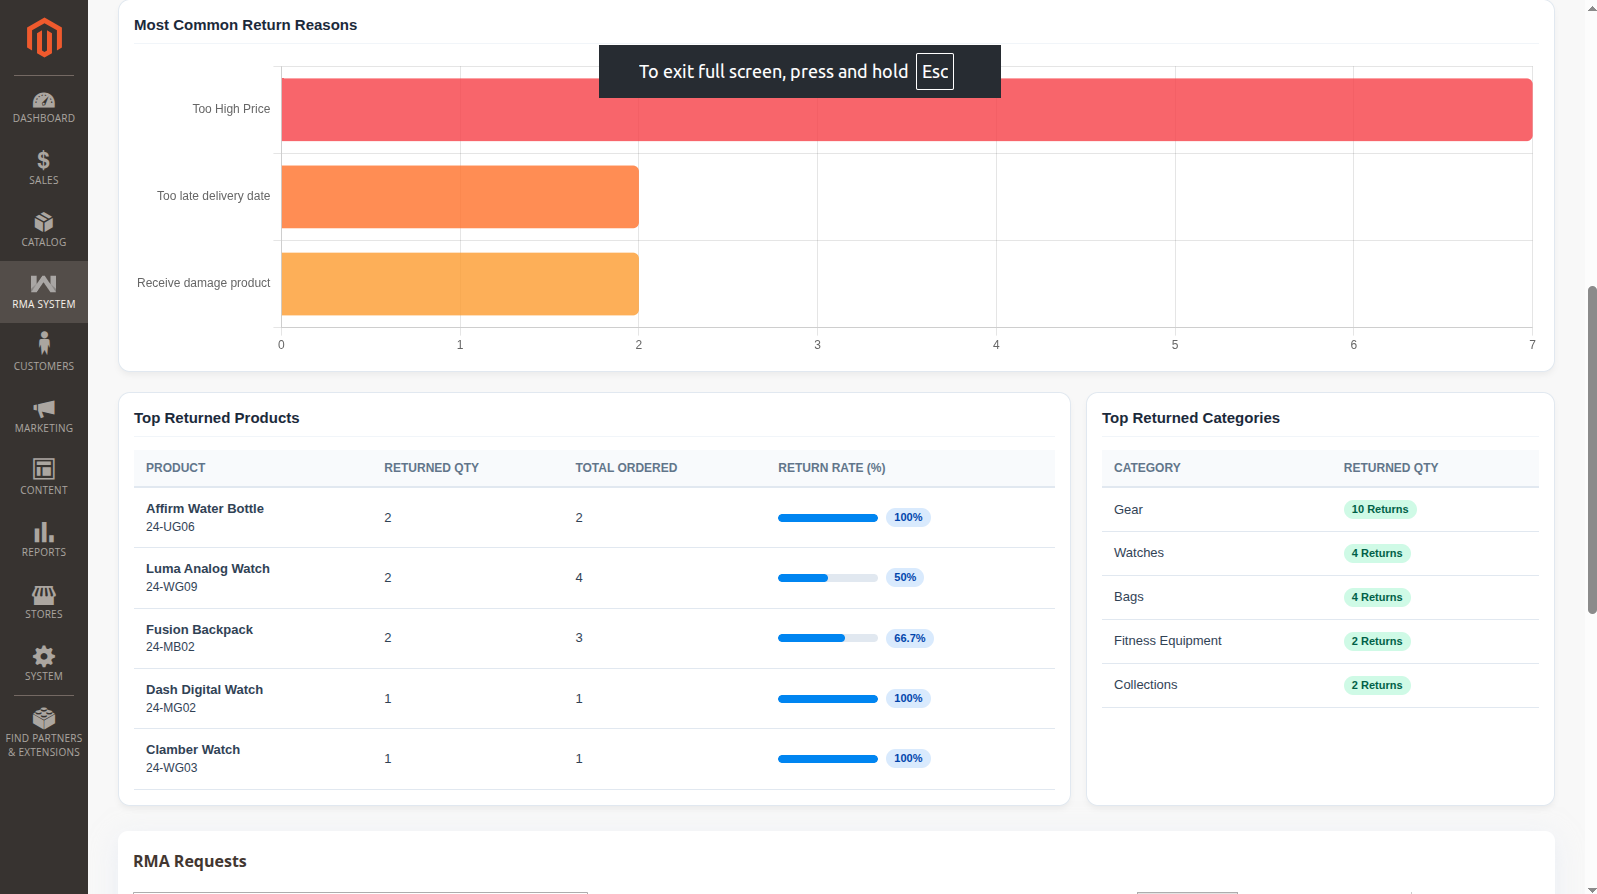
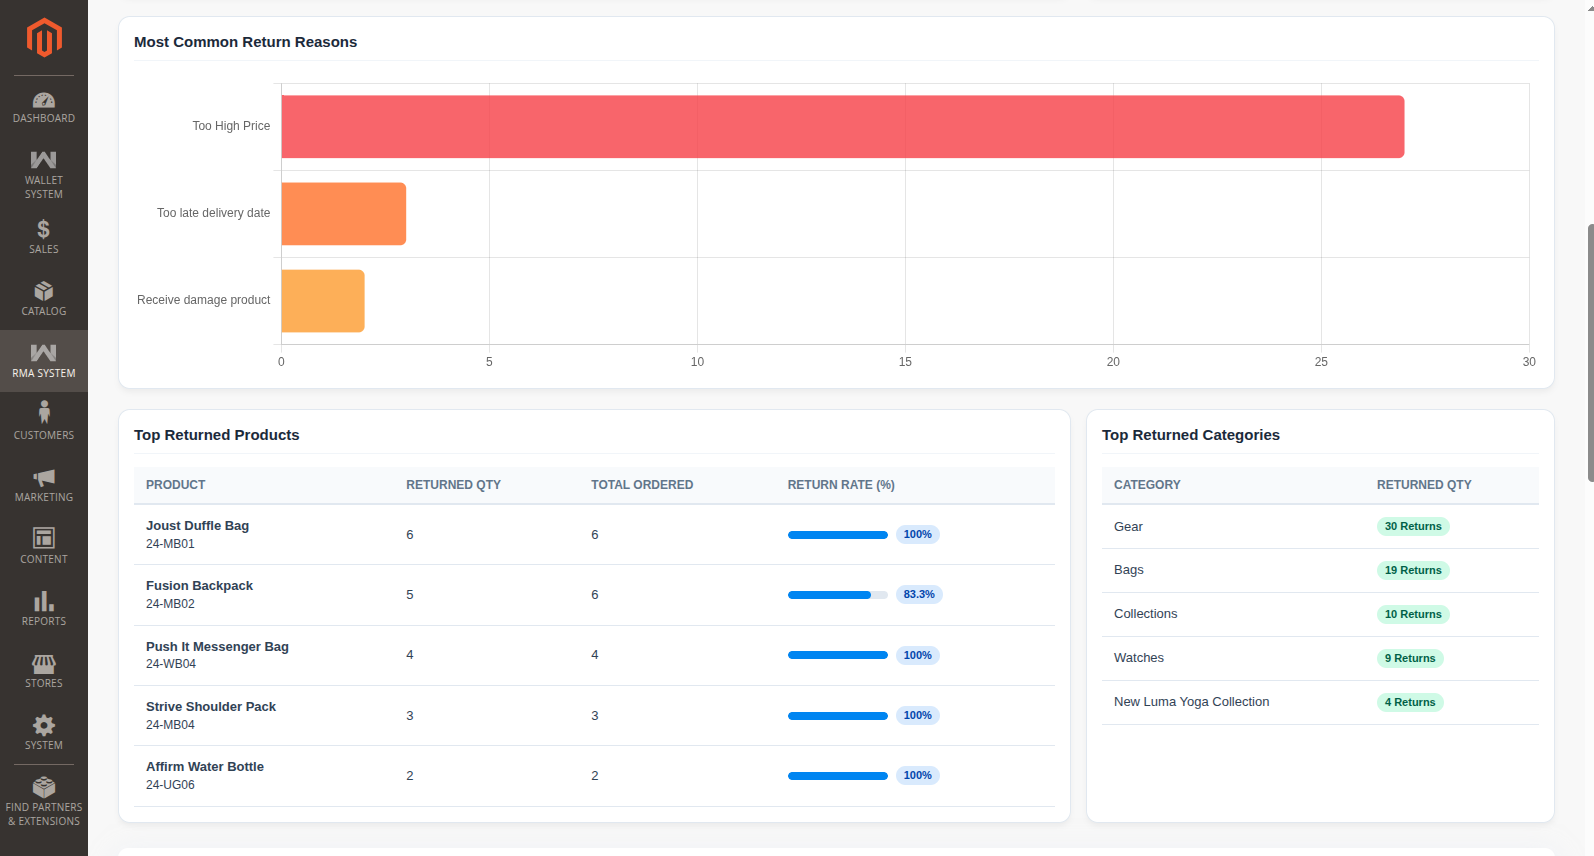
updated imges 2

diff --git a/docs/.vuepress/.temp/pages/adobe-commerce-product-return-rma-new-features.html.vue b/docs/.vuepress/.temp/pages/adobe-commerce-product-return-rma-new-features.html.vue
@@ -286,15 +286,6 @@
 </ul>
 <hr>
 <p>That’s all for the new features in the Magento 2 Return extension. If you still have any issues feel free to add a ticket and let us know your views to make the module better <strong><a href="http://webkul.uvdesk.com/" target="_blank" rel="noopener noreferrer">http://webkul.uvdesk.com/</a></strong></p>
-<p>Current Product Version - 4.0.5</p>
-<p>Supported Framework Version - Magento 2.0.x, 2.1.x, 2.2.x, 2.3.x, 2.4.x</p>
-<p><img src="https://cdnblog.webkul.com/blog/wp-content/uploads/2024/11/nirupama-shree.webp" alt="author-thumb"></p>
-<p><a href="https://webkul.com/blog/author/nirupama382/" target="_blank" rel="noopener noreferrer">nirupama shree 6 Badges</a></p>
-<ul>
-<li>25 May, 2026 Updated by - Kush Mathur</li>
-<li>16 Oct, 2025 Updated by - Kuldeep Singh</li>
-<li>19 Jun, 2026 Updated by - Nadim Ahmad</li>
-</ul>
 </div></template>
 
 

diff --git a/docs/.vuepress/.temp/pages/adobe-commerce-product-return-rma-new-features.html.js b/docs/.vuepress/.temp/pages/adobe-commerce-product-return-rma-new-features.html.js
@@ -1,5 +1,5 @@
 import comp from "/home/users/nadim.ahmad/Downloads/vuepress/vuepress-starter/docs/.vuepress/.temp/pages/adobe-commerce-product-return-rma-new-features.html.vue"
-const data = JSON.parse("{\"path\":\"/adobe-commerce-product-return-rma-new-features.html\",\"title\":\"User Guide of Magento 2 Product Return RMA — New Features\",\"lang\":\"en-US\",\"frontmatter\":{},\"headers\":[{\"level\":2,\"title\":\"New Features of Product Return RMA\",\"slug\":\"new-features-of-product-return-rma\",\"link\":\"#new-features-of-product-return-rma\",\"children\":[]},{\"level\":2,\"title\":\"Configuration of Product Return RMA\",\"slug\":\"configuration-of-product-return-rma\",\"link\":\"#configuration-of-product-return-rma\",\"children\":[{\"level\":3,\"title\":\"1. Automated Workflow Configuration\",\"slug\":\"_1-automated-workflow-configuration\",\"link\":\"#_1-automated-workflow-configuration\",\"children\":[]},{\"level\":3,\"title\":\"2. RMA Wallet Configuration\",\"slug\":\"_2-rma-wallet-configuration\",\"link\":\"#_2-rma-wallet-configuration\",\"children\":[]},{\"level\":3,\"title\":\"3. RMA Fraud Detection Configuration\",\"slug\":\"_3-rma-fraud-detection-configuration\",\"link\":\"#_3-rma-fraud-detection-configuration\",\"children\":[]}]},{\"level\":2,\"title\":\"Product Return RMA System Management\",\"slug\":\"product-return-rma-system-management\",\"link\":\"#product-return-rma-system-management\",\"children\":[{\"level\":3,\"title\":\"Manage All RMA & Analytics Dashboard\",\"slug\":\"manage-all-rma-analytics-dashboard\",\"link\":\"#manage-all-rma-analytics-dashboard\",\"children\":[]},{\"level\":3,\"title\":\"Quick Order Cancellation\",\"slug\":\"quick-order-cancellation\",\"link\":\"#quick-order-cancellation\",\"children\":[]}]},{\"level\":2,\"title\":\"GraphQL API Support\",\"slug\":\"graphql-api-support\",\"link\":\"#graphql-api-support\",\"children\":[{\"level\":3,\"title\":\"1. Retrieve RMA Dashboard Statistics (getRmaStats)\",\"slug\":\"_1-retrieve-rma-dashboard-statistics-getrmastats\",\"link\":\"#_1-retrieve-rma-dashboard-statistics-getrmastats\",\"children\":[]},{\"level\":3,\"title\":\"2. Retrieve RMAs by Status (getRmaByStatus)\",\"slug\":\"_2-retrieve-rmas-by-status-getrmabystatus\",\"link\":\"#_2-retrieve-rmas-by-status-getrmabystatus\",\"children\":[]},{\"level\":3,\"title\":\"3. Update RMA Status (updateRmaStatus)\",\"slug\":\"_3-update-rma-status-updatermastatus\",\"link\":\"#_3-update-rma-status-updatermastatus\",\"children\":[]},{\"level\":3,\"title\":\"4. Cancel RMA Request (cancelRma)\",\"slug\":\"_4-cancel-rma-request-cancelrma\",\"link\":\"#_4-cancel-rma-request-cancelrma\",\"children\":[]}]},{\"level\":2,\"title\":\"REST API Support\",\"slug\":\"rest-api-support\",\"link\":\"#rest-api-support\",\"children\":[{\"level\":3,\"title\":\"1. List RMAs\",\"slug\":\"_1-list-rmas\",\"link\":\"#_1-list-rmas\",\"children\":[]},{\"level\":3,\"title\":\"2. Create RMA\",\"slug\":\"_2-create-rma\",\"link\":\"#_2-create-rma\",\"children\":[]},{\"level\":3,\"title\":\"3. Update RMA Status\",\"slug\":\"_3-update-rma-status\",\"link\":\"#_3-update-rma-status\",\"children\":[]},{\"level\":3,\"title\":\"4. Cancel RMA\",\"slug\":\"_4-cancel-rma\",\"link\":\"#_4-cancel-rma\",\"children\":[]}]}],\"git\":{\"updatedTime\":1782305098000,\"contributors\":[{\"name\":\"Nadim Ahmad\",\"username\":\"\",\"email\":\"[email redacted]\",\"commits\":2}],\"changelog\":[{\"hash\":\"ebc9bc2fe6b5dfbfb9a8a71f14475f5d72c2fd16\",\"time\":1782305098000,\"email\":\"[email redacted]\",\"author\":\"Nadim Ahmad\",\"message\":\"updated doc images\"},{\"hash\":\"8327bbad7a7c6c6a5dd5e5522ca42d3dfb32220b\",\"time\":1782302792000,\"email\":\"[email redacted]\",\"author\":\"Nadim Ahmad\",\"message\":\"added new feature page in blog\"}]},\"filePathRelative\":\"adobe-commerce-product-return-rma-new-features.md\",\"excerpt\":\"\\n<p>Updated June 2026</p>\\n<p><a href=\\\"https://magento2demo.webkul.in/modules-demo/?demo=Webkul_Rmasystem\\\" target=\\\"_blank\\\" rel=\\\"noopener noreferrer\\\">Live Demo</a></p>\\n<p><a href=\\\"https://store.webkul.com/magento2-rma-extension.html\\\" target=\\\"_blank\\\" rel=\\\"noopener noreferrer\\\">Magento 2 RMA</a> plugin allows managing customer requests related to product returns, refunds, exchanges, and order cancellations.</p>\"}")
+const data = JSON.parse("{\"path\":\"/adobe-commerce-product-return-rma-new-features.html\",\"title\":\"User Guide of Magento 2 Product Return RMA — New Features\",\"lang\":\"en-US\",\"frontmatter\":{},\"headers\":[{\"level\":2,\"title\":\"New Features of Product Return RMA\",\"slug\":\"new-features-of-product-return-rma\",\"link\":\"#new-features-of-product-return-rma\",\"children\":[]},{\"level\":2,\"title\":\"Configuration of Product Return RMA\",\"slug\":\"configuration-of-product-return-rma\",\"link\":\"#configuration-of-product-return-rma\",\"children\":[{\"level\":3,\"title\":\"1. Automated Workflow Configuration\",\"slug\":\"_1-automated-workflow-configuration\",\"link\":\"#_1-automated-workflow-configuration\",\"children\":[]},{\"level\":3,\"title\":\"2. RMA Wallet Configuration\",\"slug\":\"_2-rma-wallet-configuration\",\"link\":\"#_2-rma-wallet-configuration\",\"children\":[]},{\"level\":3,\"title\":\"3. RMA Fraud Detection Configuration\",\"slug\":\"_3-rma-fraud-detection-configuration\",\"link\":\"#_3-rma-fraud-detection-configuration\",\"children\":[]}]},{\"level\":2,\"title\":\"Product Return RMA System Management\",\"slug\":\"product-return-rma-system-management\",\"link\":\"#product-return-rma-system-management\",\"children\":[{\"level\":3,\"title\":\"Manage All RMA & Analytics Dashboard\",\"slug\":\"manage-all-rma-analytics-dashboard\",\"link\":\"#manage-all-rma-analytics-dashboard\",\"children\":[]},{\"level\":3,\"title\":\"Quick Order Cancellation\",\"slug\":\"quick-order-cancellation\",\"link\":\"#quick-order-cancellation\",\"children\":[]}]},{\"level\":2,\"title\":\"GraphQL API Support\",\"slug\":\"graphql-api-support\",\"link\":\"#graphql-api-support\",\"children\":[{\"level\":3,\"title\":\"1. Retrieve RMA Dashboard Statistics (getRmaStats)\",\"slug\":\"_1-retrieve-rma-dashboard-statistics-getrmastats\",\"link\":\"#_1-retrieve-rma-dashboard-statistics-getrmastats\",\"children\":[]},{\"level\":3,\"title\":\"2. Retrieve RMAs by Status (getRmaByStatus)\",\"slug\":\"_2-retrieve-rmas-by-status-getrmabystatus\",\"link\":\"#_2-retrieve-rmas-by-status-getrmabystatus\",\"children\":[]},{\"level\":3,\"title\":\"3. Update RMA Status (updateRmaStatus)\",\"slug\":\"_3-update-rma-status-updatermastatus\",\"link\":\"#_3-update-rma-status-updatermastatus\",\"children\":[]},{\"level\":3,\"title\":\"4. Cancel RMA Request (cancelRma)\",\"slug\":\"_4-cancel-rma-request-cancelrma\",\"link\":\"#_4-cancel-rma-request-cancelrma\",\"children\":[]}]},{\"level\":2,\"title\":\"REST API Support\",\"slug\":\"rest-api-support\",\"link\":\"#rest-api-support\",\"children\":[{\"level\":3,\"title\":\"1. List RMAs\",\"slug\":\"_1-list-rmas\",\"link\":\"#_1-list-rmas\",\"children\":[]},{\"level\":3,\"title\":\"2. Create RMA\",\"slug\":\"_2-create-rma\",\"link\":\"#_2-create-rma\",\"children\":[]},{\"level\":3,\"title\":\"3. Update RMA Status\",\"slug\":\"_3-update-rma-status\",\"link\":\"#_3-update-rma-status\",\"children\":[]},{\"level\":3,\"title\":\"4. Cancel RMA\",\"slug\":\"_4-cancel-rma\",\"link\":\"#_4-cancel-rma\",\"children\":[]}]}],\"git\":{\"updatedTime\":1782307863000,\"contributors\":[{\"name\":\"Nadim Ahmad\",\"username\":\"\",\"email\":\"[email redacted]\",\"commits\":3}],\"changelog\":[{\"hash\":\"dc7530d4566937da49908c36fbc0164525498a72\",\"time\":1782307863000,\"email\":\"[email redacted]\",\"author\":\"Nadim Ahmad\",\"message\":\"updated images in doc\"},{\"hash\":\"ebc9bc2fe6b5dfbfb9a8a71f14475f5d72c2fd16\",\"time\":1782305098000,\"email\":\"[email redacted]\",\"author\":\"Nadim Ahmad\",\"message\":\"updated doc images\"},{\"hash\":\"8327bbad7a7c6c6a5dd5e5522ca42d3dfb32220b\",\"time\":1782302792000,\"email\":\"[email redacted]\",\"author\":\"Nadim Ahmad\",\"message\":\"added new feature page in blog\"}]},\"filePathRelative\":\"adobe-commerce-product-return-rma-new-features.md\",\"excerpt\":\"\\n<p>Updated June 2026</p>\\n<p><a href=\\\"https://magento2demo.webkul.in/modules-demo/?demo=Webkul_Rmasystem\\\" target=\\\"_blank\\\" rel=\\\"noopener noreferrer\\\">Live Demo</a></p>\\n<p><a href=\\\"https://store.webkul.com/magento2-rma-extension.html\\\" target=\\\"_blank\\\" rel=\\\"noopener noreferrer\\\">Magento 2 RMA</a> plugin allows managing customer requests related to product returns, refunds, exchanges, and order cancellations.</p>\"}")
 export { comp, data }
 
 if (import.meta.webpackHot) {

diff --git a/docs/.vuepress/.temp/pages/adobe-commerce-product-return-rma.html.js b/docs/.vuepress/.temp/pages/adobe-commerce-product-return-rma.html.js
@@ -1,5 +1,5 @@
 import comp from "/home/users/nadim.ahmad/Downloads/vuepress/vuepress-starter/docs/.vuepress/.temp/pages/adobe-commerce-product-return-rma.html.vue"
-const data = JSON.parse("{\"path\":\"/adobe-commerce-product-return-rma.html\",\"title\":\"User Guide of Magento 2 Product Return RMA\",\"lang\":\"en-US\",\"frontmatter\":{},\"headers\":[{\"level\":2,\"title\":\"Features of Product Return RMA\",\"slug\":\"features-of-product-return-rma\",\"link\":\"#features-of-product-return-rma\",\"children\":[]},{\"level\":2,\"title\":\"Installation of Product Return RMA\",\"slug\":\"installation-of-product-return-rma\",\"link\":\"#installation-of-product-return-rma\",\"children\":[{\"level\":3,\"title\":\"#1 Download Module\",\"slug\":\"_1-download-module\",\"link\":\"#_1-download-module\",\"children\":[]},{\"level\":3,\"title\":\"#2 Upload Folder\",\"slug\":\"_2-upload-folder\",\"link\":\"#_2-upload-folder\",\"children\":[]},{\"level\":3,\"title\":\"#3 Run Commands\",\"slug\":\"_3-run-commands\",\"link\":\"#_3-run-commands\",\"children\":[]},{\"level\":3,\"title\":\"Multilingual Support\",\"slug\":\"multilingual-support\",\"link\":\"#multilingual-support\",\"children\":[]}]},{\"level\":2,\"title\":\"Translation in Product Return RMA\",\"slug\":\"translation-in-product-return-rma\",\"link\":\"#translation-in-product-return-rma\",\"children\":[]},{\"level\":2,\"title\":\"Configuration of Product Return RMA\",\"slug\":\"configuration-of-product-return-rma\",\"link\":\"#configuration-of-product-return-rma\",\"children\":[{\"level\":3,\"title\":\"Select Allowed Order Status –\",\"slug\":\"select-allowed-order-status-–\",\"link\":\"#select-allowed-order-status-–\",\"children\":[]}]},{\"level\":2,\"title\":\"Advanced Configuration of Product Return RMA\",\"slug\":\"advanced-configuration-of-product-return-rma\",\"link\":\"#advanced-configuration-of-product-return-rma\",\"children\":[{\"level\":3,\"title\":\"1. Automated Workflow Configuration\",\"slug\":\"_1-automated-workflow-configuration\",\"link\":\"#_1-automated-workflow-configuration\",\"children\":[]},{\"level\":3,\"title\":\"2. RMA Wallet Configuration\",\"slug\":\"_2-rma-wallet-configuration\",\"link\":\"#_2-rma-wallet-configuration\",\"children\":[]},{\"level\":3,\"title\":\"3. RMA Fraud Detection Configuration\",\"slug\":\"_3-rma-fraud-detection-configuration\",\"link\":\"#_3-rma-fraud-detection-configuration\",\"children\":[]},{\"level\":3,\"title\":\"Category Restriction in Product Return RMA\",\"slug\":\"category-restriction-in-product-return-rma\",\"link\":\"#category-restriction-in-product-return-rma\",\"children\":[]}]},{\"level\":2,\"title\":\"Product Return RMA System Management\",\"slug\":\"product-return-rma-system-management\",\"link\":\"#product-return-rma-system-management\",\"children\":[{\"level\":3,\"title\":\"Create RMA\",\"slug\":\"create-rma\",\"link\":\"#create-rma\",\"children\":[]},{\"level\":3,\"title\":\"Manage All RMA & Analytics Dashboard\",\"slug\":\"manage-all-rma-analytics-dashboard\",\"link\":\"#manage-all-rma-analytics-dashboard\",\"children\":[]},{\"level\":3,\"title\":\"Manage Payment History\",\"slug\":\"manage-payment-history\",\"link\":\"#manage-payment-history\",\"children\":[]},{\"level\":3,\"title\":\"Manage Reasons\",\"slug\":\"manage-reasons\",\"link\":\"#manage-reasons\",\"children\":[]},{\"level\":3,\"title\":\"Manage Shipping Label\",\"slug\":\"manage-shipping-label\",\"link\":\"#manage-shipping-label\",\"children\":[]},{\"level\":3,\"title\":\"Manage RMA Custom Fields\",\"slug\":\"manage-rma-custom-fields\",\"link\":\"#manage-rma-custom-fields\",\"children\":[]},{\"level\":3,\"title\":\"Add New Field\",\"slug\":\"add-new-field\",\"link\":\"#add-new-field\",\"children\":[]},{\"level\":3,\"title\":\"RMA Status\",\"slug\":\"rma-status\",\"link\":\"#rma-status\",\"children\":[]},{\"level\":3,\"title\":\"RMA Rules\",\"slug\":\"rma-rules\",\"link\":\"#rma-rules\",\"children\":[]},{\"level\":3,\"title\":\"Create a New RMA Request\",\"slug\":\"create-a-new-rma-request\",\"link\":\"#create-a-new-rma-request\",\"children\":[]},{\"level\":3,\"title\":\"Quick Order Cancellation\",\"slug\":\"quick-order-cancellation\",\"link\":\"#quick-order-cancellation\",\"children\":[]},{\"level\":3,\"title\":\"View RMA\",\"slug\":\"view-rma\",\"link\":\"#view-rma\",\"children\":[]},{\"level\":3,\"title\":\"Print Shipping Slip\",\"slug\":\"print-shipping-slip\",\"link\":\"#print-shipping-slip\",\"children\":[]},{\"level\":3,\"title\":\"Guest Login for RMA\",\"slug\":\"guest-login-for-rma\",\"link\":\"#guest-login-for-rma\",\"children\":[]},{\"level\":3,\"title\":\"New RMA Request\",\"slug\":\"new-rma-request\",\"link\":\"#new-rma-request\",\"children\":[]},{\"level\":3,\"title\":\"Manage All RMA Requests\",\"slug\":\"manage-all-rma-requests\",\"link\":\"#manage-all-rma-requests\",\"children\":[]},{\"level\":3,\"title\":\"magento 2 rma request\",\"slug\":\"magento-2-rma-request\",\"link\":\"#magento-2-rma-request\",\"children\":[]},{\"level\":3,\"title\":\"Manage RMA\",\"slug\":\"manage-rma\",\"link\":\"#manage-rma\",\"children\":[]},{\"level\":3,\"title\":\"RMA Status\",\"slug\":\"rma-status-1\",\"link\":\"#rma-status-1\",\"children\":[]},{\"level\":3,\"title\":\"Refund\",\"slug\":\"refund\",\"link\":\"#refund\",\"children\":[]},{\"level\":3,\"title\":\"Cancel Items\",\"slug\":\"cancel-items\",\"link\":\"#cancel-items\",\"children\":[]},{\"level\":3,\"title\":\"Exchange\",\"slug\":\"exchange\",\"link\":\"#exchange\",\"children\":[]}]}],\"git\":{\"updatedTime\":1782305098000,\"contributors\":[{\"name\":\"Nadim Ahmad\",\"username\":\"\",\"email\":\"[email redacted]\",\"commits\":6}],\"changelog\":[{\"hash\":\"ebc9bc2fe6b5dfbfb9a8a71f14475f5d72c2fd16\",\"time\":1782305098000,\"email\":\"[email redacted]\",\"author\":\"Nadim Ahmad\",\"message\":\"updated doc images\"},{\"hash\":\"8327bbad7a7c6c6a5dd5e5522ca42d3dfb32220b\",\"time\":1782302792000,\"email\":\"[email redacted]\",\"author\":\"Nadim Ahmad\",\"message\":\"added new feature page in blog\"},{\"hash\":\"eb5e162acc33fad14667a5b32a15c0b421dfa774\",\"time\":1781877971000,\"email\":\"[email redacted]\",\"author\":\"Nadim Ahmad\",\"message\":\"updated blog file\"},{\"hash\":\"3dc7c82c808f494be5b76f6220ecdeee9bc06143\",\"time\":1781877176000,\"email\":\"[email redacted]\",\"author\":\"Nadim Ahmad\",\"message\":\"updated the doc\"},{\"hash\":\"277c7ddb12eb9643aec2b306eac48b569fe36ffd\",\"time\":1781872337000,\"email\":\"[email redacted]\",\"author\":\"Nadim Ahmad\",\"message\":\"updated doc\"},{\"hash\":\"352528ada77dce5d02ae49abeb40ef0052c2b249\",\"time\":1781871567000,\"email\":\"[email redacted]\",\"author\":\"Nadim Ahmad\",\"message\":\"feat: setup VuePress documentation with RMA guide\"}]},\"filePathRelative\":\"adobe-commerce-product-return-rma.md\",\"excerpt\":\"\\n<p>Updated June 2026</p>\\n<p><a href=\\\"https://magento2demo.webkul.in/modules-demo/?demo=Webkul_Rmasystem\\\" target=\\\"_blank\\\" rel=\\\"noopener noreferrer\\\">Live Demo</a></p>\\n<p><a href=\\\"https://store.webkul.com/magento2-rma-extension.html\\\" target=\\\"_blank\\\" rel=\\\"noopener noreferrer\\\">Magento 2 RMA</a> plugin allows managing customer requests related to product returns, refunds, exchanges, and order cancellations.</p>\"}")
+const data = JSON.parse("{\"path\":\"/adobe-commerce-product-return-rma.html\",\"title\":\"User Guide of Magento 2 Product Return RMA\",\"lang\":\"en-US\",\"frontmatter\":{},\"headers\":[{\"level\":2,\"title\":\"Features of Product Return RMA\",\"slug\":\"features-of-product-return-rma\",\"link\":\"#features-of-product-return-rma\",\"children\":[]},{\"level\":2,\"title\":\"Installation of Product Return RMA\",\"slug\":\"installation-of-product-return-rma\",\"link\":\"#installation-of-product-return-rma\",\"children\":[{\"level\":3,\"title\":\"#1 Download Module\",\"slug\":\"_1-download-module\",\"link\":\"#_1-download-module\",\"children\":[]},{\"level\":3,\"title\":\"#2 Upload Folder\",\"slug\":\"_2-upload-folder\",\"link\":\"#_2-upload-folder\",\"children\":[]},{\"level\":3,\"title\":\"#3 Run Commands\",\"slug\":\"_3-run-commands\",\"link\":\"#_3-run-commands\",\"children\":[]},{\"level\":3,\"title\":\"Multilingual Support\",\"slug\":\"multilingual-support\",\"link\":\"#multilingual-support\",\"children\":[]}]},{\"level\":2,\"title\":\"Translation in Product Return RMA\",\"slug\":\"translation-in-product-return-rma\",\"link\":\"#translation-in-product-return-rma\",\"children\":[]},{\"level\":2,\"title\":\"Configuration of Product Return RMA\",\"slug\":\"configuration-of-product-return-rma\",\"link\":\"#configuration-of-product-return-rma\",\"children\":[{\"level\":3,\"title\":\"Select Allowed Order Status –\",\"slug\":\"select-allowed-order-status-–\",\"link\":\"#select-allowed-order-status-–\",\"children\":[]}]},{\"level\":2,\"title\":\"Advanced Configuration of Product Return RMA\",\"slug\":\"advanced-configuration-of-product-return-rma\",\"link\":\"#advanced-configuration-of-product-return-rma\",\"children\":[{\"level\":3,\"title\":\"1. Automated Workflow Configuration\",\"slug\":\"_1-automated-workflow-configuration\",\"link\":\"#_1-automated-workflow-configuration\",\"children\":[]},{\"level\":3,\"title\":\"2. RMA Wallet Configuration\",\"slug\":\"_2-rma-wallet-configuration\",\"link\":\"#_2-rma-wallet-configuration\",\"children\":[]},{\"level\":3,\"title\":\"3. RMA Fraud Detection Configuration\",\"slug\":\"_3-rma-fraud-detection-configuration\",\"link\":\"#_3-rma-fraud-detection-configuration\",\"children\":[]},{\"level\":3,\"title\":\"Category Restriction in Product Return RMA\",\"slug\":\"category-restriction-in-product-return-rma\",\"link\":\"#category-restriction-in-product-return-rma\",\"children\":[]}]},{\"level\":2,\"title\":\"Product Return RMA System Management\",\"slug\":\"product-return-rma-system-management\",\"link\":\"#product-return-rma-system-management\",\"children\":[{\"level\":3,\"title\":\"Create RMA\",\"slug\":\"create-rma\",\"link\":\"#create-rma\",\"children\":[]},{\"level\":3,\"title\":\"Manage All RMA & Analytics Dashboard\",\"slug\":\"manage-all-rma-analytics-dashboard\",\"link\":\"#manage-all-rma-analytics-dashboard\",\"children\":[]},{\"level\":3,\"title\":\"Manage Payment History\",\"slug\":\"manage-payment-history\",\"link\":\"#manage-payment-history\",\"children\":[]},{\"level\":3,\"title\":\"Manage Reasons\",\"slug\":\"manage-reasons\",\"link\":\"#manage-reasons\",\"children\":[]},{\"level\":3,\"title\":\"Manage Shipping Label\",\"slug\":\"manage-shipping-label\",\"link\":\"#manage-shipping-label\",\"children\":[]},{\"level\":3,\"title\":\"Manage RMA Custom Fields\",\"slug\":\"manage-rma-custom-fields\",\"link\":\"#manage-rma-custom-fields\",\"children\":[]},{\"level\":3,\"title\":\"Add New Field\",\"slug\":\"add-new-field\",\"link\":\"#add-new-field\",\"children\":[]},{\"level\":3,\"title\":\"RMA Status\",\"slug\":\"rma-status\",\"link\":\"#rma-status\",\"children\":[]},{\"level\":3,\"title\":\"RMA Rules\",\"slug\":\"rma-rules\",\"link\":\"#rma-rules\",\"children\":[]},{\"level\":3,\"title\":\"Create a New RMA Request\",\"slug\":\"create-a-new-rma-request\",\"link\":\"#create-a-new-rma-request\",\"children\":[]},{\"level\":3,\"title\":\"Quick Order Cancellation\",\"slug\":\"quick-order-cancellation\",\"link\":\"#quick-order-cancellation\",\"children\":[]},{\"level\":3,\"title\":\"View RMA\",\"slug\":\"view-rma\",\"link\":\"#view-rma\",\"children\":[]},{\"level\":3,\"title\":\"Print Shipping Slip\",\"slug\":\"print-shipping-slip\",\"link\":\"#print-shipping-slip\",\"children\":[]},{\"level\":3,\"title\":\"Guest Login for RMA\",\"slug\":\"guest-login-for-rma\",\"link\":\"#guest-login-for-rma\",\"children\":[]},{\"level\":3,\"title\":\"New RMA Request\",\"slug\":\"new-rma-request\",\"link\":\"#new-rma-request\",\"children\":[]},{\"level\":3,\"title\":\"Manage All RMA Requests\",\"slug\":\"manage-all-rma-requests\",\"link\":\"#manage-all-rma-requests\",\"children\":[]},{\"level\":3,\"title\":\"magento 2 rma request\",\"slug\":\"magento-2-rma-request\",\"link\":\"#magento-2-rma-request\",\"children\":[]},{\"level\":3,\"title\":\"Manage RMA\",\"slug\":\"manage-rma\",\"link\":\"#manage-rma\",\"children\":[]},{\"level\":3,\"title\":\"RMA Status\",\"slug\":\"rma-status-1\",\"link\":\"#rma-status-1\",\"children\":[]},{\"level\":3,\"title\":\"Refund\",\"slug\":\"refund\",\"link\":\"#refund\",\"children\":[]},{\"level\":3,\"title\":\"Cancel Items\",\"slug\":\"cancel-items\",\"link\":\"#cancel-items\",\"children\":[]},{\"level\":3,\"title\":\"Exchange\",\"slug\":\"exchange\",\"link\":\"#exchange\",\"children\":[]}]}],\"git\":{\"updatedTime\":1782307863000,\"contributors\":[{\"name\":\"Nadim Ahmad\",\"username\":\"\",\"email\":\"[email redacted]\",\"commits\":7}],\"changelog\":[{\"hash\":\"dc7530d4566937da49908c36fbc0164525498a72\",\"time\":1782307863000,\"email\":\"[email redacted]\",\"author\":\"Nadim Ahmad\",\"message\":\"updated images in doc\"},{\"hash\":\"ebc9bc2fe6b5dfbfb9a8a71f14475f5d72c2fd16\",\"time\":1782305098000,\"email\":\"[email redacted]\",\"author\":\"Nadim Ahmad\",\"message\":\"updated doc images\"},{\"hash\":\"8327bbad7a7c6c6a5dd5e5522ca42d3dfb32220b\",\"time\":1782302792000,\"email\":\"[email redacted]\",\"author\":\"Nadim Ahmad\",\"message\":\"added new feature page in blog\"},{\"hash\":\"eb5e162acc33fad14667a5b32a15c0b421dfa774\",\"time\":1781877971000,\"email\":\"[email redacted]\",\"author\":\"Nadim Ahmad\",\"message\":\"updated blog file\"},{\"hash\":\"3dc7c82c808f494be5b76f6220ecdeee9bc06143\",\"time\":1781877176000,\"email\":\"[email redacted]\",\"author\":\"Nadim Ahmad\",\"message\":\"updated the doc\"},{\"hash\":\"277c7ddb12eb9643aec2b306eac48b569fe36ffd\",\"time\":1781872337000,\"email\":\"[email redacted]\",\"author\":\"Nadim Ahmad\",\"message\":\"updated doc\"},{\"hash\":\"352528ada77dce5d02ae49abeb40ef0052c2b249\",\"time\":1781871567000,\"email\":\"[email redacted]\",\"author\":\"Nadim Ahmad\",\"message\":\"feat: setup VuePress documentation with RMA guide\"}]},\"filePathRelative\":\"adobe-commerce-product-return-rma.md\",\"excerpt\":\"\\n<p>Updated June 2026</p>\\n<p><a href=\\\"https://magento2demo.webkul.in/modules-demo/?demo=Webkul_Rmasystem\\\" target=\\\"_blank\\\" rel=\\\"noopener noreferrer\\\">Live Demo</a></p>\\n<p><a href=\\\"https://store.webkul.com/magento2-rma-extension.html\\\" target=\\\"_blank\\\" rel=\\\"noopener noreferrer\\\">Magento 2 RMA</a> plugin allows managing customer requests related to product returns, refunds, exchanges, and order cancellations.</p>\"}")
 export { comp, data }
 
 if (import.meta.webpackHot) {

diff --git a/docs/adobe-commerce-product-return-rma-new-features.md b/docs/adobe-commerce-product-return-rma-new-features.md
@@ -359,15 +359,3 @@ The module exposes full CRUD REST endpoints for third-party and mobile applicati
 ---
 
 That’s all for the new features in the Magento 2 Return extension. If you still have any issues feel free to add a ticket and let us know your views to make the module better **[http://webkul.uvdesk.com/](http://webkul.uvdesk.com/)**
-
-Current Product Version - 4.0.5
-
-Supported Framework Version - Magento 2.0.x, 2.1.x, 2.2.x, 2.3.x, 2.4.x
-
-![author-thumb](https://cdnblog.webkul.com/blog/wp-content/uploads/2024/11/nirupama-shree.webp)
-
-[nirupama shree 6 Badges](https://webkul.com/blog/author/nirupama382/)
-
-- 25 May, 2026 Updated by - Kush Mathur
-- 16 Oct, 2025 Updated by - Kuldeep Singh
-- 19 Jun, 2026 Updated by - Nadim Ahmad